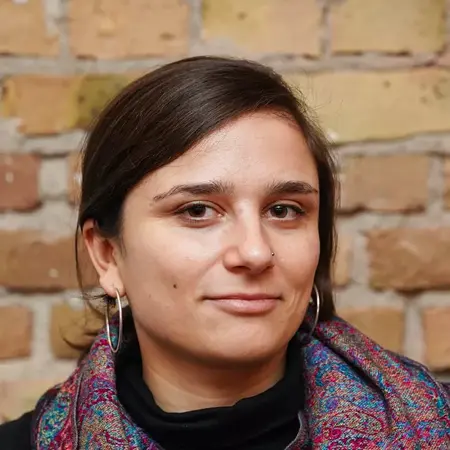
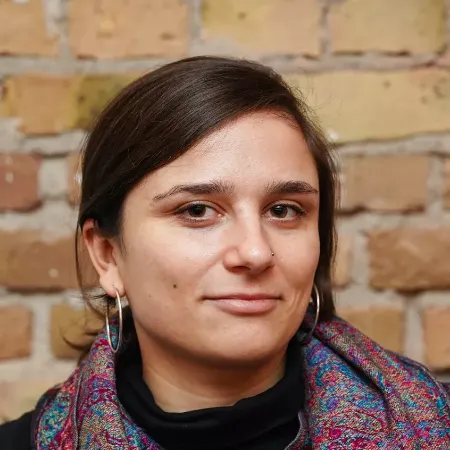
Added Anna Zagorski to 2025 speakers

Changed region(s): [[0.7156, 0.84, 0.9956, 1.0], [0.1867, 0.84, 0.28, 1.0], [0.84, 0.84, 0.8711, 0.8711]]

diff --git a/content/english/speaker/2025/anna-zagorski.md b/content/english/speaker/2025/anna-zagorski.md
@@ -1,0 +1,17 @@
+---
+title: "Anna Zagorski"
+date: 2025-08-22T08:51:25+06:00
+draft: false
+description: "Anna Zagorski"
+bg_image : "images/bg/cta-bg.webp"
+image: "images/teams/anna-zagorski.webp"
+company: "Umweltbundesamt"
+designation : "Research Associate for Green IT"
+type : "speaker"
+outdated: true
+
+---
+
+Anna Zagorski is a Research Associate for Green IT at the German Environment Agency (UBA / Umweltbundesamt). 
+
+Her main research topics are the [Blue Angel for software](https://www.blauer-engel.de/en/productworld/software), green coding techniques, and software-related obsolescence.
